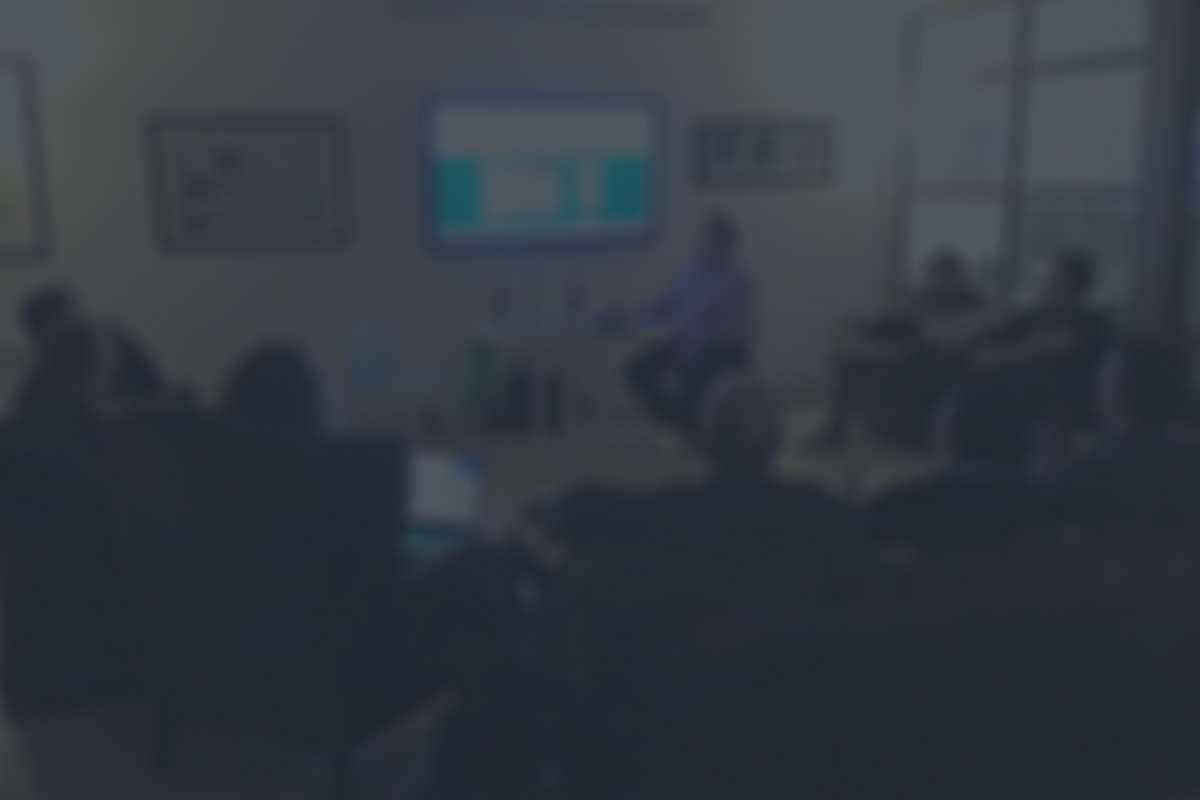
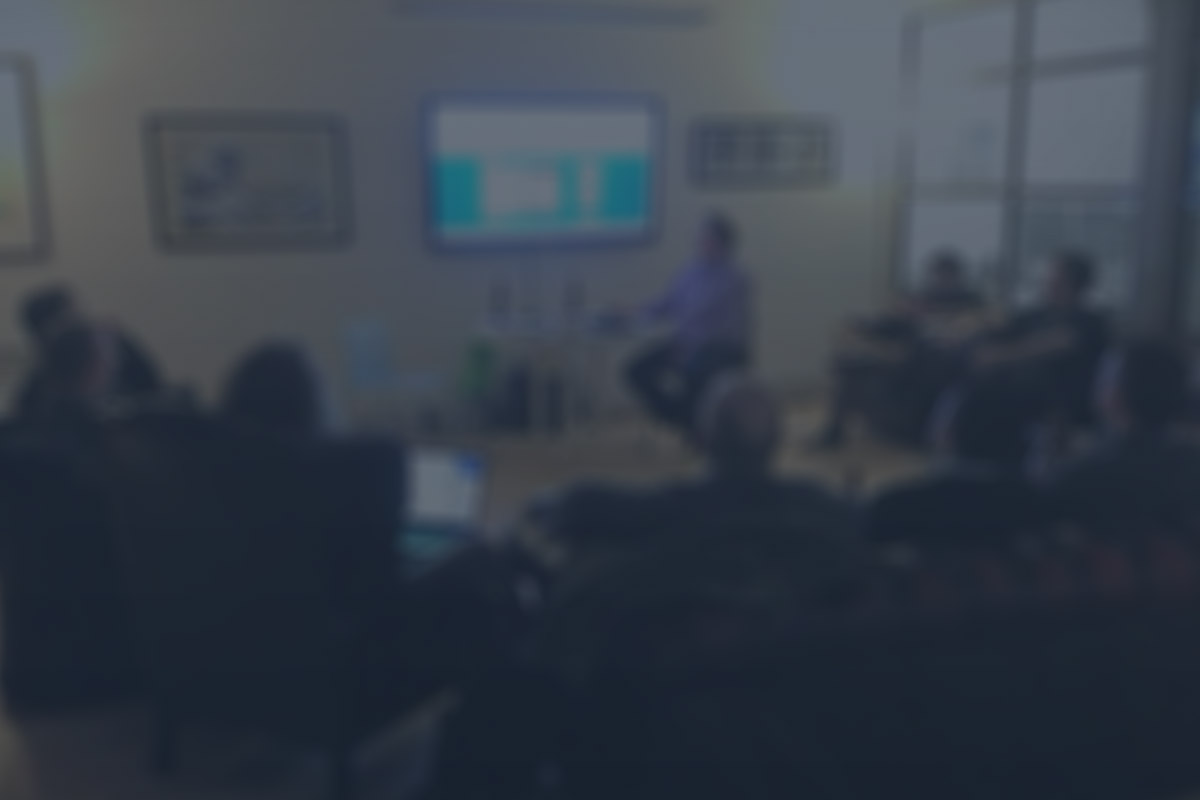
Fixed the background image sizing to give Martin his happiness back, no one should have to use comic sans
Also removed the unused banner image and squished the new banner image.

diff --git a/src/Prototypes/public/styles/css/screen.min.css b/src/Prototypes/public/styles/css/screen.min.css
@@ -1,1 +1,1 @@
-@charset "UTF-8";/*! normalize.css v2.1.3 | MIT License | git.io/normalize */@import url(//hello.myfonts.net/count/2ab2f4);article,aside,details,figcaption,figure,footer,header,hgroup,main,nav,section,summary{display:block}audio,canvas,video{display:inline-block}audio:not([controls]){display:none;height:0}[hidden],template{display:none}html{-ms-text-size-adjust:100%;-webkit-text-size-adjust:100%}body{margin:0}*,:after,:before{-moz-box-sizing:border-box;-webkit-box-sizing:border-box;box-sizing:border-box}a{background:0 0}a:focus{outline:thin dotted}a:active,a:hover{outline:0}abbr[title]{border-bottom:1px dotted}b,strong{font-weight:700}dfn{font-style:italic}hr{-moz-box-sizing:content-box;box-sizing:content-box}mark{background:#ff0;color:#000}code,kbd,pre,samp{font-family:monospace,serif}pre{white-space:pre-wrap}q{quotes:"\201C" "\201D" "\2018" "\2019"}small{font-size:80%}sub,sup{font-size:75%;line-height:0;position:relative;vertical-align:baseline}sup{top:-.5em}sub{bottom:-.25em}img{border:0}svg:not(:root){overflow:hidden}figure{margin:0}fieldset{border:1px solid silver;margin:0 2px;padding:.35em .625em .75em}legend{border:0;padding:0}button,input,select,textarea{font-family:inherit;font-size:100%;margin:0}button,input{line-height:normal}button,select{text-transform:none}button,html input[type=button],input[type=reset],input[type=submit]{-webkit-appearance:button;cursor:pointer}button[disabled],html input[disabled]{cursor:default}input[type=checkbox],input[type=radio]{box-sizing:border-box;padding:0}input[type=search]{-webkit-appearance:textfield;-moz-box-sizing:content-box;-webkit-box-sizing:content-box;box-sizing:content-box}input[type=search]::-webkit-search-cancel-button,input[type=search]::-webkit-search-decoration{-webkit-appearance:none}button::-moz-focus-inner,input::-moz-focus-inner{border:0;padding:0}textarea{overflow:auto;vertical-align:top}table{border-collapse:collapse;border-spacing:0}.feature-list:after,.feature-list:before,.group:after,.group:before,.nav-primary ul:after,.nav-primary ul:before{content:"";display:table}.feature-list:after,.group:after,.nav-primary ul:after{clear:both}.feature-list,.group,.nav-primary ul{zoom:1}.is-hidden{display:none!important}.is-off-screen{position:absolute;left:-9999px}@font-face{font-family:MetronicProAir;src:url(../fonts/2AB2F4_0_0.eot);src:url(../fonts/2AB2F4_0_0.eot?#iefix) format("embedded-opentype"),url(../fonts/2AB2F4_0_0.woff) format("woff"),url(../fonts/2AB2F4_0_0.ttf) format("truetype")}@font-face{font-family:MetronicProLight;src:url(../fonts/2AB2F4_1_0.eot);src:url(../fonts/2AB2F4_1_0.eot?#iefix) format("embedded-opentype"),url(../fonts/2AB2F4_1_0.woff) format("woff"),url(../fonts/2AB2F4_1_0.ttf) format("truetype")}@font-face{font-family:MetronicProRegular;src:url(../fonts/2AB2F4_2_0.eot);src:url(../fonts/2AB2F4_2_0.eot?#iefix) format("embedded-opentype"),url(../fonts/2AB2F4_2_0.woff) format("woff"),url(../fonts/2AB2F4_2_0.ttf) format("truetype")}@font-face{font-family:MetronicProSemiBold;src:url(../fonts/2AB2F4_3_0.eot);src:url(../fonts/2AB2F4_3_0.eot?#iefix) format("embedded-opentype"),url(../fonts/2AB2F4_3_0.woff) format("woff"),url(../fonts/2AB2F4_3_0.ttf) format("truetype")}html{font:500 1.125em/1.5 "Alright Sans Light",arial,sans-serif;color:#333}.alpha,.beta,.delta,.epsilon,.gamma,h1,h2,h3,h4,h5{font-family:MetronicProRegular;font-weight:500;color:#b9306a}.alpha a,.beta a,.delta a,.epsilon a,.gamma a,h1 a,h2 a,h3 a,h4 a,h5 a{color:#b9306a;text-decoration:none}.alpha a:hover,.beta a:hover,.delta a:hover,.epsilon a:hover,.gamma a:hover,h1 a:hover,h2 a:hover,h3 a:hover,h4 a:hover,h5 a:hover{text-decoration:underline}.alpha,h1{font-size:30px;font-size:1.875rem;line-height:1.3;margin:0 0 1em}@media (max-width:37.5em){.alpha,h1{font-size:26px;font-size:1.625rem}}.beta,h2{font-size:26px;font-size:1.625rem;margin:0 0 .3846em}@media (max-width:37.5em){.beta,h2{font-size:20px;font-size:1.25rem}}.gamma,h3{font-size:20px;font-size:1.25rem;margin:0 0 .3em}.delta,h4{font-size:18px;font-size:1.125rem;margin:0 0 .5em}.epsilon,h5{font-size:16px;font-size:1rem;font-weight:600;margin:0 0 .5em}.zeta,h6{font-size:16px;font-size:1rem;margin:0 0 .5em}.hero-title{text-align:center;margin-bottom:.8928em}@media (max-width:single){.hero-title{margin-bottom:.5em}}.intro{font-size:20px;font-size:1.25rem}p,pre{margin-top:0;margin-bottom:.75em}a{color:#b9306a}a:hover{text-decoration:none}.alrightsanslight{font-family:"Alright Sans Light";font-style:normal;font-weight:400}.alrightsanslightitalic{font-family:"Alright Sans Light";font-style:italic;font-weight:400}.alrightsansregular{font-family:"Alright Sans";font-style:normal;font-weight:400}.alrightsansregularitalic{font-family:"Alright Sans";font-style:italic;font-weight:400}.btn{-webkit-border-radius:3px;-moz-border-radius:3px;-ms-border-radius:3px;-o-border-radius:3px;border-radius:3px;display:inline-block;font-family:MetronicProRegular;text-decoration:none;text-align:center;color:#fff;border:solid;border-width:1px;padding:1em;cursor:pointer}.btn:hover{background:#992857}.btn--primary{background:#b9306a;border-color:#992857;-webkit-transition:background .2s;-moz-transition:background .2s;-o-transition:background .2s;transition:background .2s}.btn--primary:focus,.btn--primary:hover{background:#992857;border-color:#992857;-webkit-transition:background .2s;-moz-transition:background .2s;-o-transition:background .2s;transition:background .2s}.btn--secondary{background:#303d4a;border-color:#202931;-webkit-transition:background .2s;-moz-transition:background .2s;-o-transition:background .2s;transition:background .2s}.btn--secondary:focus,.btn--secondary:hover{background:#202931;border-color:#202931;-webkit-transition:background .2s;-moz-transition:background .2s;-o-transition:background .2s;transition:background .2s}.btn--tertiary{background:#0f767e;border-color:#0b545a;-webkit-transition:background .2s;-moz-transition:background .2s;-o-transition:background .2s;transition:background .2s}.btn--tertiary:focus,.btn--tertiary:hover{background:#0b545a;border-color:#0b545a;-webkit-transition:background .2s;-moz-transition:background .2s;-o-transition:background .2s;transition:background .2s}.btn--positive{background:#29a25e;border-color:#21814b;-webkit-transition:background .2s;-moz-transition:background .2s;-o-transition:background .2s;transition:background .2s}.btn--positive:focus,.btn--positive:hover{background:#21814b;border-color:#21814b;-webkit-transition:background .2s;-moz-transition:background .2s;-o-transition:background .2s;transition:background .2s}.btn--negative{background:#b93d3d;border-color:#9a3333;-webkit-transition:background .2s;-moz-transition:background .2s;-o-transition:background .2s;transition:background .2s}.btn--negative:focus,.btn--negative:hover{background:#9a3333;border-color:#9a3333;-webkit-transition:background .2s;-moz-transition:background .2s;-o-transition:background .2s;transition:background .2s}.btn--xs{font-size:16px;font-size:1rem;font-weight:500;padding:0 .5em}.btn--s{font-weight:500;padding:.4em .8em}.btn--m{padding:.75em 1.25em}.btn--l{padding:1.2em 2em}.btn--xl{padding:1.5em 3em}.btn--full{width:100%}.btn--multi{position:relative;display:inline-block;padding-right:4em}.btn--multi .btn{-webkit-border-radius:3px 0 0 3px;-moz-border-radius:3px 0 0 3px;-ms-border-radius:3px 0 0 3px;-o-border-radius:3px 0 0 3px;border-radius:3px 0 0 3px}.btn--multi .btn-drop{-webkit-border-radius:0 3px 3px 0;-moz-border-radius:0 3px 3px 0;-ms-border-radius:0 3px 3px 0;-o-border-radius:0 3px 3px 0;border-radius:0 3px 3px 0;position:absolute;top:0;right:0;bottom:0;width:4em;cursor:pointer;border:1px solid #a52b5e}.btn--multi .btn-drop:after{position:absolute;top:50%;left:50%;content:"";border-top:8px solid #fff;border-right:5px solid transparent;border-left:5px solid transparent;margin:-4px 0 0 -5px}.btn--multi .btn-sub{-webkit-border-radius:3px;-moz-border-radius:3px;-ms-border-radius:3px;-o-border-radius:3px;border-radius:3px;position:absolute;top:100%;right:0;left:0;width:auto;list-style-type:none;background:#fff;border:1px solid #ddd;padding:0;margin:.3em 0 0}.btn--multi .btn-sub li:first-child a{-webkit-border-radius:3px 3px 0 0;-moz-border-radius:3px 3px 0 0;-ms-border-radius:3px 3px 0 0;-o-border-radius:3px 3px 0 0;border-radius:3px 3px 0 0}.btn--multi .btn-sub li:last-child a{-webkit-border-radius:0 0 3px 3px;-moz-border-radius:0 0 3px 3px;-ms-border-radius:0 0 3px 3px;-o-border-radius:0 0 3px 3px;border-radius:0 0 3px 3px}.btn--multi .btn-sub a{display:block;color:#646464;text-decoration:none;padding:.5em 1em}.btn--multi .btn-sub a:hover{color:#fff;background:#646464}.nav-primary ul{padding:0;margin:0;list-style-type:none}.nav-primary li{float:left}.nav-primary .current a{border:1px solid #b9306a}.nav-primary a{display:block;padding:.6875em 1em;border:1px solid transparent;text-decoration:none;text-align:center;color:#636363}.nav-primary a:hover{color:#565656}.form-group{margin-bottom:1.125em}.layout-stacked .label,.layout-stacked label{margin-bottom:.375em;display:block}.form-actions{margin-top:1.5em}.sub-info{font-size:14.21px;font-size:.888rem;font-family:"Alright Sans Light";display:block;padding:1em 0;color:#737373;font-style:italic;text-align:center}.sub-label{color:#b93d3d}input[type=date],input[type=email],input[type=number],input[type=password],input[type=tel],input[type=text],select,textarea{padding:.75em;border:1px solid #ccc;border-radius:0}input[type=date]:focus,input[type=email]:focus,input[type=number]:focus,input[type=password]:focus,input[type=tel]:focus,input[type=text]:focus,select:focus,textarea:focus{outline:2px solid #0e7279}.input-xs{width:45px}.input-s{width:80px}.input-m{width:150px}.input-l{width:203px}.input-xl{width:350px}@media (max-width:37.5em){.input-xl{width:100%}}.input-xxl{width:516px}textarea.input-xxl{width:370px}.input-full{width:100%}.input-validation-error{background:#f6e5e5;border-color:#b93d3d!important;border-width:2px!important}.field-validation-error{width:auto;display:inline-block;padding-top:.5em}input[type=email],input[type=number],input[type=password],input[type=tel],input[type=text],textarea{-webkit-appearance:none;-moz-appearance:none}html{padding:0;margin:0}@media (max-width:37.5em){html{height:auto}}body{background:#2b2f39}.home{background:#232e3a url(../img/bg-homepage-banner-2.jpg) no-repeat;background-size:cover;background-position:50% 50%}.home:after{position:absolute;top:0;right:0;bottom:0;width:40%;max-width:600px;content:"";background:#fff;z-index:-1}@media (max-width:37.5em){.home:after{display:none}}@media (max-width:56.25em){.home:after{width:50%}}ul{margin:0 0 .75em}ul ul{margin:.375em 0}.layout-constrained{min-width:300px;padding:0 2em;margin:0 auto}@media (max-width:single){.layout-constrained{padding:0 .5em}}.home-banner{float:left;width:60%;padding:2em}@media (max-width:56.25em){.home-banner{width:50%}}@media (max-width:37.5em){.home-banner{padding:2em 1.5em;width:100%}}.hero{max-width:750px}.hero a,.hero h1,.hero p{color:#fff}.logo-site{max-width:300px;height:177px;margin-bottom:1.5em;background:url(../img/logo-yorkshiredigital-reversed.svg) 0 100% no-repeat}.no-svg .logo-site{background-image:url(../img/logo-yorkshiredigital-reversed.png)}.feature-list{margin:2em 0}.feature-list__item{float:left;margin-right:2em}.sign-up{float:right;width:40%;max-width:600px;padding:9.75em 2.5em 2em;background:#fff}@media (max-width:56.25em){.sign-up{width:50%}}@media (max-width:37.5em){.sign-up{width:100%;position:static;padding:2em 1.5em}}footer[role=contentinfo]{padding-top:1em;margin-top:3em;border-top:1px solid #ddd;text-align:center;color:#949494}@media (max-width:37.5em){footer[role=contentinfo]{margin-top:1.5em}}hr{height:1px;margin:1em 0;background:#DDD;border:0}
+@charset "UTF-8";/*! normalize.css v2.1.3 | MIT License | git.io/normalize */@import url(//hello.myfonts.net/count/2ab2f4);article,aside,details,figcaption,figure,footer,header,hgroup,main,nav,section,summary{display:block}audio,canvas,video{display:inline-block}audio:not([controls]){display:none;height:0}[hidden],template{display:none}html{-ms-text-size-adjust:100%;-webkit-text-size-adjust:100%}body{margin:0}*,:after,:before{-moz-box-sizing:border-box;-webkit-box-sizing:border-box;box-sizing:border-box}a{background:0 0}a:focus{outline:thin dotted}a:active,a:hover{outline:0}abbr[title]{border-bottom:1px dotted}b,strong{font-weight:700}dfn{font-style:italic}hr{-moz-box-sizing:content-box;box-sizing:content-box}mark{background:#ff0;color:#000}code,kbd,pre,samp{font-family:monospace,serif}pre{white-space:pre-wrap}q{quotes:"\201C" "\201D" "\2018" "\2019"}small{font-size:80%}sub,sup{font-size:75%;line-height:0;position:relative;vertical-align:baseline}sup{top:-.5em}sub{bottom:-.25em}img{border:0}svg:not(:root){overflow:hidden}figure{margin:0}fieldset{border:1px solid silver;margin:0 2px;padding:.35em .625em .75em}legend{border:0;padding:0}button,input,select,textarea{font-family:inherit;font-size:100%;margin:0}button,input{line-height:normal}button,select{text-transform:none}button,html input[type=button],input[type=reset],input[type=submit]{-webkit-appearance:button;cursor:pointer}button[disabled],html input[disabled]{cursor:default}input[type=checkbox],input[type=radio]{box-sizing:border-box;padding:0}input[type=search]{-webkit-appearance:textfield;-moz-box-sizing:content-box;-webkit-box-sizing:content-box;box-sizing:content-box}input[type=search]::-webkit-search-cancel-button,input[type=search]::-webkit-search-decoration{-webkit-appearance:none}button::-moz-focus-inner,input::-moz-focus-inner{border:0;padding:0}textarea{overflow:auto;vertical-align:top}table{border-collapse:collapse;border-spacing:0}.group:after,.group:before,.nav-primary ul:after,.nav-primary ul:before{content:"";display:table}.group:after,.nav-primary ul:after{clear:both}.group,.nav-primary ul{zoom:1}.is-hidden{display:none!important}.is-off-screen{position:absolute;left:-9999px}@font-face{font-family:MetronicProAir;src:url(../fonts/2AB2F4_0_0.eot);src:url(../fonts/2AB2F4_0_0.eot?#iefix) format("embedded-opentype"),url(../fonts/2AB2F4_0_0.woff) format("woff"),url(../fonts/2AB2F4_0_0.ttf) format("truetype")}@font-face{font-family:MetronicProLight;src:url(../fonts/2AB2F4_1_0.eot);src:url(../fonts/2AB2F4_1_0.eot?#iefix) format("embedded-opentype"),url(../fonts/2AB2F4_1_0.woff) format("woff"),url(../fonts/2AB2F4_1_0.ttf) format("truetype")}@font-face{font-family:MetronicProRegular;src:url(../fonts/2AB2F4_2_0.eot);src:url(../fonts/2AB2F4_2_0.eot?#iefix) format("embedded-opentype"),url(../fonts/2AB2F4_2_0.woff) format("woff"),url(../fonts/2AB2F4_2_0.ttf) format("truetype")}@font-face{font-family:MetronicProSemiBold;src:url(../fonts/2AB2F4_3_0.eot);src:url(../fonts/2AB2F4_3_0.eot?#iefix) format("embedded-opentype"),url(../fonts/2AB2F4_3_0.woff) format("woff"),url(../fonts/2AB2F4_3_0.ttf) format("truetype")}html{font:500 1.125em/1.5 "Alright Sans Light",arial,sans-serif;color:#333}.alpha,.beta,.delta,.epsilon,.gamma,h1,h2,h3,h4,h5{font-family:MetronicProRegular;font-weight:500;color:#b9306a}.alpha a,.beta a,.delta a,.epsilon a,.gamma a,h1 a,h2 a,h3 a,h4 a,h5 a{color:#b9306a;text-decoration:none}.alpha a:hover,.beta a:hover,.delta a:hover,.epsilon a:hover,.gamma a:hover,h1 a:hover,h2 a:hover,h3 a:hover,h4 a:hover,h5 a:hover{text-decoration:underline}.alpha,h1{font-size:30px;font-size:1.875rem;line-height:1.3;margin:0 0 1em}@media (max-width:37.5em){.alpha,h1{font-size:26px;font-size:1.625rem}}.beta,h2{font-size:26px;font-size:1.625rem;margin:0 0 .3846em}@media (max-width:37.5em){.beta,h2{font-size:20px;font-size:1.25rem}}.gamma,h3{font-size:20px;font-size:1.25rem;margin:0 0 .3em}.delta,h4{font-size:18px;font-size:1.125rem;margin:0 0 .5em}.epsilon,h5{font-size:16px;font-size:1rem;font-weight:600;margin:0 0 .5em}.zeta,h6{font-size:16px;font-size:1rem;margin:0 0 .5em}.hero-title{text-align:center;margin-bottom:.8928em}@media (max-width:single){.hero-title{margin-bottom:.5em}}.intro{font-size:20px;font-size:1.25rem}p,pre{margin-top:0;margin-bottom:.75em}a{color:#b9306a}a:hover{text-decoration:none}.alrightsanslight{font-family:"Alright Sans Light";font-style:normal;font-weight:400}.alrightsanslightitalic{font-family:"Alright Sans Light";font-style:italic;font-weight:400}.alrightsansregular{font-family:"Alright Sans";font-style:normal;font-weight:400}.alrightsansregularitalic{font-family:"Alright Sans";font-style:italic;font-weight:400}.btn{-webkit-border-radius:3px;-moz-border-radius:3px;-ms-border-radius:3px;-o-border-radius:3px;border-radius:3px;display:inline-block;font-family:MetronicProRegular;text-decoration:none;text-align:center;color:#fff;border:solid;border-width:1px;padding:1em;cursor:pointer}.btn:hover{background:#992857}.btn--primary{background:#b9306a;border-color:#992857;-webkit-transition:background .2s;-moz-transition:background .2s;-o-transition:background .2s;transition:background .2s}.btn--primary:focus,.btn--primary:hover{background:#992857;border-color:#992857;-webkit-transition:background .2s;-moz-transition:background .2s;-o-transition:background .2s;transition:background .2s}.btn--secondary{background:#303d4a;border-color:#202931;-webkit-transition:background .2s;-moz-transition:background .2s;-o-transition:background .2s;transition:background .2s}.btn--secondary:focus,.btn--secondary:hover{background:#202931;border-color:#202931;-webkit-transition:background .2s;-moz-transition:background .2s;-o-transition:background .2s;transition:background .2s}.btn--tertiary{background:#0f767e;border-color:#0b545a;-webkit-transition:background .2s;-moz-transition:background .2s;-o-transition:background .2s;transition:background .2s}.btn--tertiary:focus,.btn--tertiary:hover{background:#0b545a;border-color:#0b545a;-webkit-transition:background .2s;-moz-transition:background .2s;-o-transition:background .2s;transition:background .2s}.btn--positive{background:#29a25e;border-color:#21814b;-webkit-transition:background .2s;-moz-transition:background .2s;-o-transition:background .2s;transition:background .2s}.btn--positive:focus,.btn--positive:hover{background:#21814b;border-color:#21814b;-webkit-transition:background .2s;-moz-transition:background .2s;-o-transition:background .2s;transition:background .2s}.btn--negative{background:#b93d3d;border-color:#9a3333;-webkit-transition:background .2s;-moz-transition:background .2s;-o-transition:background .2s;transition:background .2s}.btn--negative:focus,.btn--negative:hover{background:#9a3333;border-color:#9a3333;-webkit-transition:background .2s;-moz-transition:background .2s;-o-transition:background .2s;transition:background .2s}.btn--xs{font-size:16px;font-size:1rem;font-weight:500;padding:0 .5em}.btn--s{font-weight:500;padding:.4em .8em}.btn--m{padding:.75em 1.25em}.btn--l{padding:1.2em 2em}.btn--xl{padding:1.5em 3em}.btn--full{width:100%}.btn--multi{position:relative;display:inline-block;padding-right:4em}.btn--multi .btn{-webkit-border-radius:3px 0 0 3px;-moz-border-radius:3px 0 0 3px;-ms-border-radius:3px 0 0 3px;-o-border-radius:3px 0 0 3px;border-radius:3px 0 0 3px}.btn--multi .btn-drop{-webkit-border-radius:0 3px 3px 0;-moz-border-radius:0 3px 3px 0;-ms-border-radius:0 3px 3px 0;-o-border-radius:0 3px 3px 0;border-radius:0 3px 3px 0;position:absolute;top:0;right:0;bottom:0;width:4em;cursor:pointer;border:1px solid #a52b5e}.btn--multi .btn-drop:after{position:absolute;top:50%;left:50%;content:"";border-top:8px solid #fff;border-right:5px solid transparent;border-left:5px solid transparent;margin:-4px 0 0 -5px}.btn--multi .btn-sub{-webkit-border-radius:3px;-moz-border-radius:3px;-ms-border-radius:3px;-o-border-radius:3px;border-radius:3px;position:absolute;top:100%;right:0;left:0;width:auto;list-style-type:none;background:#fff;border:1px solid #ddd;padding:0;margin:.3em 0 0}.btn--multi .btn-sub li:first-child a{-webkit-border-radius:3px 3px 0 0;-moz-border-radius:3px 3px 0 0;-ms-border-radius:3px 3px 0 0;-o-border-radius:3px 3px 0 0;border-radius:3px 3px 0 0}.btn--multi .btn-sub li:last-child a{-webkit-border-radius:0 0 3px 3px;-moz-border-radius:0 0 3px 3px;-ms-border-radius:0 0 3px 3px;-o-border-radius:0 0 3px 3px;border-radius:0 0 3px 3px}.btn--multi .btn-sub a{display:block;color:#646464;text-decoration:none;padding:.5em 1em}.btn--multi .btn-sub a:hover{color:#fff;background:#646464}.nav-primary ul{padding:0;margin:0;list-style-type:none}.nav-primary li{float:left}.nav-primary .current a{border:1px solid #b9306a}.nav-primary a{display:block;padding:.6875em 1em;border:1px solid transparent;text-decoration:none;text-align:center;color:#636363}.nav-primary a:hover{color:#565656}.form-group{margin-bottom:1.125em}.layout-stacked .label,.layout-stacked label{margin-bottom:.375em;display:block}.form-actions{margin-top:1.5em}.sub-info{font-size:14.21px;font-size:.888rem;font-family:"Alright Sans Light";display:block;padding:1em 0;color:#737373;font-style:italic;text-align:center}.sub-label{color:#b93d3d}input[type=date],input[type=email],input[type=number],input[type=password],input[type=tel],input[type=text],select,textarea{padding:.75em;border:1px solid #ccc;border-radius:0}input[type=date]:focus,input[type=email]:focus,input[type=number]:focus,input[type=password]:focus,input[type=tel]:focus,input[type=text]:focus,select:focus,textarea:focus{outline:2px solid #0e7279}.input-xs{width:45px}.input-s{width:80px}.input-m{width:150px}.input-l{width:203px}.input-xl{width:350px}@media (max-width:37.5em){.input-xl{width:100%}}.input-xxl{width:516px}textarea.input-xxl{width:370px}.input-full{width:100%}.input-validation-error{background:#f6e5e5;border-color:#b93d3d!important;border-width:2px!important}.field-validation-error{width:auto;display:inline-block;padding-top:.5em}input[type=email],input[type=number],input[type=password],input[type=tel],input[type=text],textarea{-webkit-appearance:none;-moz-appearance:none}html{padding:0;margin:0}body{background:#2b2f39}.home{background:#232e3a url(../img/bg-homepage-banner.jpg) fixed no-repeat;-webkit-background-size:cover;-moz-background-size:cover;-o-background-size:cover;background-size:cover}.home:after{position:absolute;top:0;right:0;bottom:0;width:40%;max-width:600px;content:"";background:#fff;z-index:-1}@media (max-width:37.5em){.home:after{display:none}}@media (max-width:56.25em){.home:after{width:50%}}.layout-constrained{min-width:300px;padding:0 2em;margin:0 auto}@media (max-width:single){.layout-constrained{padding:0 .5em}}.home-banner{float:left;width:60%;padding:2em}@media (max-width:56.25em){.home-banner{width:50%}}@media (max-width:37.5em){.home-banner{padding:2em 1.5em;width:100%}}.hero{max-width:750px}.hero a,.hero h1,.hero p{color:#fff}.logo-site{max-width:300px;height:177px;margin-bottom:1.5em;background:url(../img/logo-yorkshiredigital-reversed.svg) 0 100% no-repeat}.no-svg .logo-site{background-image:url(../img/logo-yorkshiredigital-reversed.png)}.sign-up{float:right;width:40%;max-width:600px;padding:9.75em 2.5em 2em;background:#fff}@media (max-width:56.25em){.sign-up{width:50%}}@media (max-width:37.5em){.sign-up{width:100%;position:static;padding:2em 1.5em}}footer[role=contentinfo]{padding-top:1em;margin-top:3em;border-top:1px solid #ddd;text-align:center;color:#767676}@media (max-width:37.5em){footer[role=contentinfo]{margin-top:1.5em}}hr{height:1px;margin:1em 0;background:#DDD;border:0}

diff --git a/src/Prototypes/public/styles/css/screen.css b/src/Prototypes/public/styles/css/screen.css
@@ -391,19 +391,18 @@ table {
 --------------------------------------------------------------------*/
 /*  =GLOBAL USE STYLES
 --------------------------------------------------------------------*/
-.group:before, .nav-primary ul:before, .feature-list:before,
+.group:before, .nav-primary ul:before,
 .group:after,
-.nav-primary ul:after,
-.feature-list:after {
+.nav-primary ul:after {
   content: "";
   display: table;
 }
 
-.group:after, .nav-primary ul:after, .feature-list:after {
+.group:after, .nav-primary ul:after {
   clear: both;
 }
 
-.group, .nav-primary ul, .feature-list {
+.group, .nav-primary ul {
   zoom: 1;
 }
 
@@ -997,20 +996,17 @@ html {
   padding: 0;
   margin: 0;
 }
-@media (max-width: 37.5em) {
-  html {
-    height: auto;
-  }
-}
 
 body {
   background: #2b2f39;
 }
 
 .home {
-  background: #232e3a url(../img/bg-homepage-banner-2.jpg) no-repeat;
+  background: #232e3a url(../img/bg-homepage-banner.jpg) fixed no-repeat;
+  -webkit-background-size: cover;
+  -moz-background-size: cover;
+  -o-background-size: cover;
   background-size: cover;
-  background-position: 50% 50%;
 }
 .home:after {
   position: absolute;
@@ -1032,13 +1028,6 @@ body {
   .home:after {
     width: 50%;
   }
-}
-
-ul {
-  margin: 0 0 .75em 0;
-}
-ul ul {
-  margin: .375em 0 .375em 0;
 }
 
 /*  =LAYOUT
@@ -1090,15 +1079,6 @@ ul ul {
   background-image: url(../img/logo-yorkshiredigital-reversed.png);
 }
 
-.feature-list {
-  margin: 2em 0;
-}
-
-.feature-list__item {
-  float: left;
-  margin-right: 2em;
-}
-
 /*  =SIGN UP BLOCK
 --------------------------------------------------------------------*/
 .sign-up {
@@ -1128,7 +1108,7 @@ footer[role="contentinfo"] {
   margin-top: 3em;
   border-top: 1px solid #ddd;
   text-align: center;
-  color: #949494;
+  color: #767676;
 }
 @media (max-width: 37.5em) {
   footer[role="contentinfo"] {

diff --git a/src/Prototypes/public/styles/sass/screen.scss b/src/Prototypes/public/styles/sass/screen.scss
@@ -14,25 +14,21 @@
 /*  =BASE
 ------------------------------------------------------------*/
 html {
-	//height: 100%;
 	padding: 0;
 	margin: 0;
-
-	@include breakpoint(viewport-s) {
-		height: auto;
-	}
 }
 
 body {
-	//height: 100%;
 	background: #2b2f39;
 	//@include baseline-overlay();
 }
 
 .home {
-	background: #232e3a url(../img/bg-homepage-banner-2.jpg) no-repeat;
-	background-size: cover;
-    background-position: 50% 50%;
+	background: #232e3a url(../img/bg-homepage-banner.jpg) fixed no-repeat;
+	-webkit-background-size: cover;
+        -moz-background-size: cover;
+        -o-background-size: cover;
+        background-size: cover;
 
     &:after {
     	position: absolute;
@@ -53,14 +49,6 @@ body {
 			width: 50%;
 		}
     }
-}
-
-ul {
-	margin: 0 0 .75em 0;
-
-	ul {
-		margin: .375em 0 .375em 0;
-	}
 }
 
 /*  =LAYOUT
@@ -115,16 +103,6 @@ ul {
 	}
 }
 
-.feature-list {
-	margin: 2em 0;
-	@extend .group;
-}
-
-.feature-list__item {
-	float: left;
-	margin-right: 2em;
-}
-
 /*  =SIGN UP BLOCK
 --------------------------------------------------------------------*/
 .sign-up {
@@ -152,7 +130,7 @@ footer[role="contentinfo"] {
 	margin-top: 3em;
 	border-top: 1px solid #ddd;
 	text-align: center;
-	color: #949494;
+	color: #767676;
 
 	@include breakpoint(viewport-s) {
 		margin-top: 1.5em;
